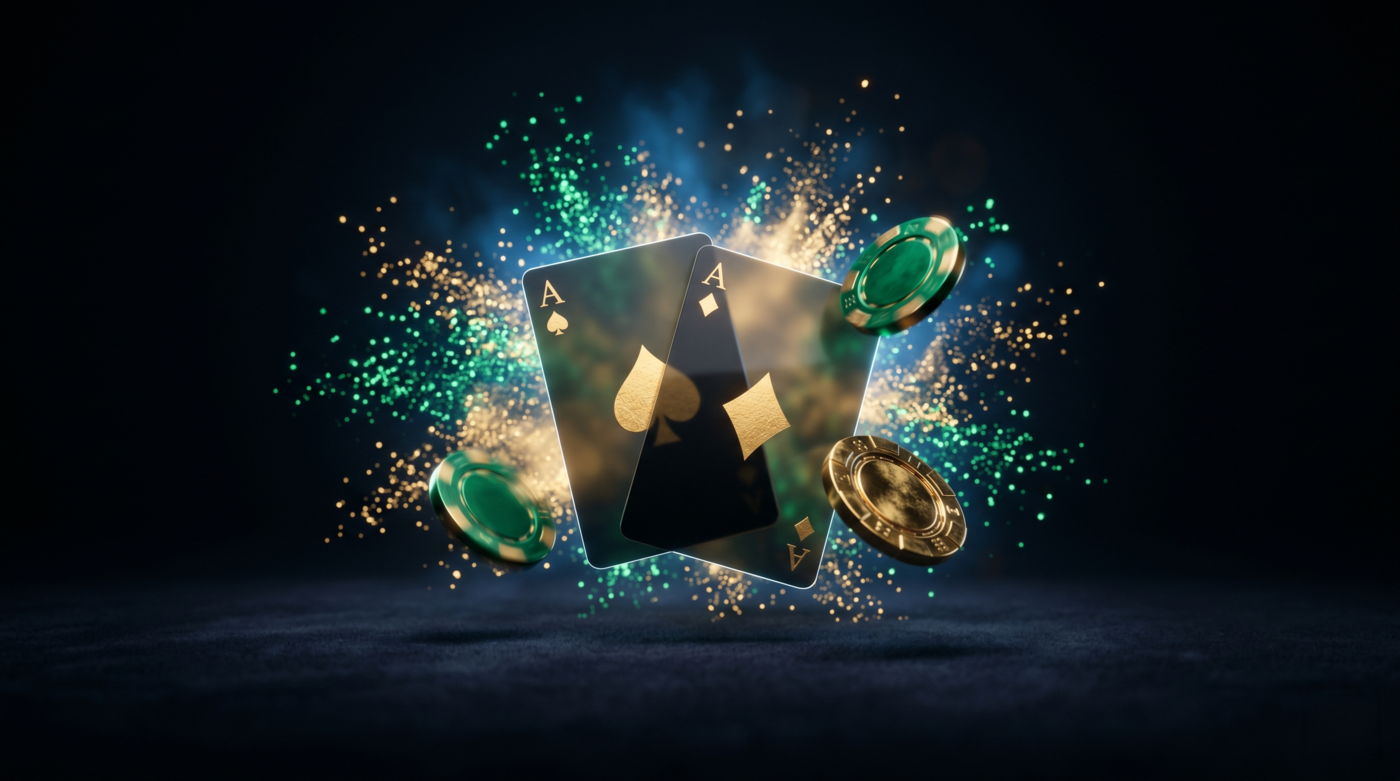
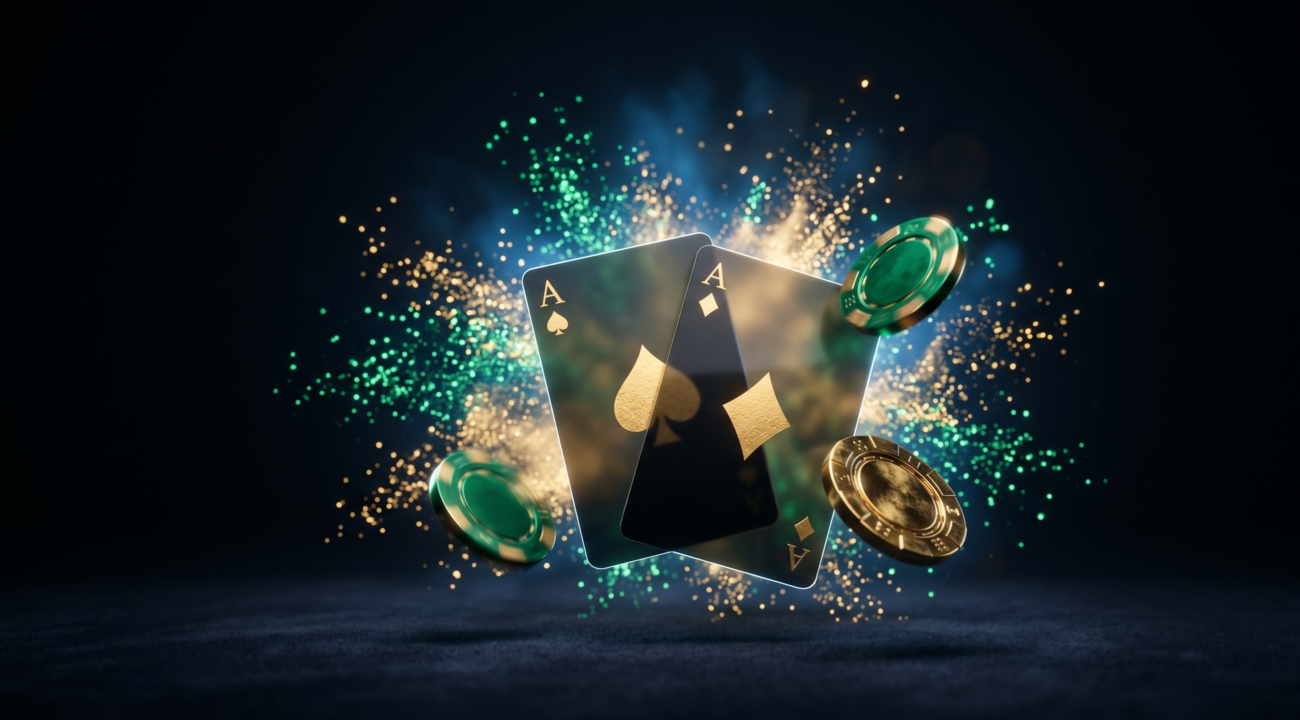
Revert in-app raster art to clean CSS (hero + Store) — kept felt + og
The generated scene-images don't blend: each has a baked dark background, so they
render as visible rectangles against the #070a0f UI, and the four were stylistically
inconsistent. Reverted the home hero back to the CSS card-fan (blends perfectly +
keeps the 3D tilt) and removed the Store chip image. KEPT felt.jpg (works as a table
texture, blends inside the rail) and og.png (the social share card lives outside the
UI; user removed the Gemini watermark in Photoshop).

Changed region(s): [[0.1231, 0.0917, 0.8923, 1.0], [0.7385, 0.7944, 0.7692, 0.825], [0.6462, 0.0917, 0.6769, 0.1222]]

diff --git a/src/ui/main.ts b/src/ui/main.ts
@@ -88,6 +88,7 @@ interface AppState {
   wallet: { play: number | null; premium: number | null }; // server balances (signed in)
   lastWeekly: number;       // last weekly-claim timestamp (server)
   weeklyStreak: number;     // consecutive weekly claims (drives the ladder)
+  collectibles: string[];   // owned cosmetic collectibles (server)
   isAdmin: boolean;         // super-admin custom claim
   inbox: import("../mp/firebase-adapter.js").InboxMsg[];
   compose: { toUid: string; toName: string; text: string; giftAmt: number; busy: boolean; err: string; sent: string };
@@ -212,6 +213,7 @@ const S: AppState = {
   wallet: { play: null, premium: null },
   lastWeekly: 0,
   weeklyStreak: 0,
+  collectibles: [],
   isAdmin: false,
   inbox: [],
   compose: { toUid: "", toName: "", text: "", giftAmt: 0, busy: false, err: "", sent: "" },
@@ -3736,7 +3738,7 @@ function stopEconomySubs(): void {
 async function startEconomySubs(uid: string): Promise<void> {
   stopEconomySubs();
   try {
-    _walletUnsub = await FB.subscribeWallet(uid, (w) => { S.wallet = { play: w.play, premium: w.premium }; S.edgePass = w.edgePass; S.lastWeekly = w.lastWeekly; S.weeklyStreak = w.weeklyStreak; renderIfEcon(); maybeShowWeekly(); });
+    _walletUnsub = await FB.subscribeWallet(uid, (w) => { S.wallet = { play: w.play, premium: w.premium }; S.edgePass = w.edgePass; S.lastWeekly = w.lastWeekly; S.weeklyStreak = w.weeklyStreak; S.collectibles = w.collectibles; renderIfEcon(); maybeShowWeekly(); });
     _inboxUnsub = await FB.subscribeInbox(uid, (msgs) => { S.inbox = msgs; renderIfEcon(); });
     _onlineUnsub = await FB.subscribeOnline((list) => { S.mp.online = list.filter((p) => p.uid !== uid); renderIfEcon(); });
     FB.isAdminClaim().then((a) => { S.isAdmin = a; renderIfEcon(); }).catch(() => {});
@@ -4110,6 +4112,7 @@ const EDGE_TIERS = [
 ];
 const COSMETICS = [
   { id: "squid", emoji: "🦑", name: "Squid Mascot", desc: "Collectible table mascot", chips: 2500 },
+  { id: "squiddigital", emoji: "🦑", name: "Squid · Digital", desc: "Limited digital Squid — account-bound flair", chips: 2000 },
   { id: "goldback", emoji: "🟡", name: "Gold Card Back", desc: "Gilded deck", chips: 1200 },
   { id: "emerald", emoji: "🟢", name: "Emerald Felt", desc: "Premium table felt", chips: 1500 },
   { id: "crown", emoji: "👑", name: "Crown Flair", desc: "Profile crown", chips: 3000 },
@@ -4119,8 +4122,8 @@ function addCosmetic(id: string): void { const o = ownedCosmetics(); if (!o.incl
 
 function renderStore(): void {
   cancelVillainTimer();
-  const owned = ownedCosmetics();
   const loggedIn = !!S.mp.auth;
+  const owned = loggedIn ? S.collectibles : ownedCosmetics();
   const playBal = loggedIn ? S.wallet.play : S.profile.chips;
   const premBal = loggedIn ? S.wallet.premium : 0;
   const claimReady = canClaimWeekly();
@@ -4149,7 +4152,6 @@ function renderStore(): void {
       </div>
 
       <div class="set-group"><div class="set-head">🪙 Play chips</div>
-        <img class="store-chips-art" src="chips.png" alt="" aria-hidden="true" width="1100" height="600" />
         <div class="set-note" style="margin-bottom:9px">Practice currency · refills free every Monday (+streak). AI rooms + learning tables. Buy-in capped at 100bb, so chips never buy an edge.</div>
         <div class="pack-grid">${PLAY_PACKS.map((pk) => pack(pk, "🪙")).join("")}</div>
       </div>
@@ -4163,7 +4165,7 @@ function renderStore(): void {
         <div class="set-note" style="margin-bottom:9px">Cosmetic only — card-backs, felts, frames. <strong>Account-bound: cannot be sold, traded, or transferred for value.</strong> The flashiest ones unlock by beating the trainer.</div>
         <div class="store-grid">${COSMETICS.map((c) => {
           const own = owned.includes(c.id);
-          return `<div class="store-item ${own ? "owned" : ""}"><div class="si-emoji">${c.emoji}</div><div class="si-name">${c.name}</div><div class="si-desc">${c.desc}</div>${own ? `<div class="si-own">Owned ✓</div>` : `<button class="hdr-btn" disabled>💎 ${c.chips.toLocaleString()} · Soon</button>`}</div>`;
+          return `<div class="store-item ${own ? "owned" : ""}"><div class="si-emoji">${c.emoji}</div><div class="si-name">${c.name}</div><div class="si-desc">${c.desc}</div>${own ? `<div class="si-own">Owned ✓</div>` : (loggedIn ? `<button class="hdr-btn buy-col" data-col="${c.id}" ${(S.wallet.premium ?? 0) < c.chips ? "disabled" : ""}>💎 ${c.chips.toLocaleString()}</button>` : `<button class="hdr-btn" disabled>💎 ${c.chips.toLocaleString()}</button>`)}</div>`;
         }).join("")}</div>
       </div>
 
@@ -4173,8 +4175,16 @@ function renderStore(): void {
   onId("store-back", "click", () => { S.screen = "home"; render(); });
   onId("store-back2", "click", () => { S.screen = "home"; render(); });
   onId("store-claim", "click", () => { _weeklyShown = false; showWeeklyClaim(); });
+  app.querySelectorAll(".buy-col").forEach((b) => onEl(b, "click", () => void doBuyCollectible((b as HTMLElement).dataset.col!)));
   onId("edge-buy", "click", () => { void startEdgePass(); });
   onId("edge-manage", "click", () => { void manageEdgePass(); });
+}
+
+// Buy a cosmetic collectible with premium chips (the live wallet sub reflects the
+// new balance + owned state on success; account-bound, non-transferable).
+async function doBuyCollectible(itemId: string): Promise<void> {
+  try { await FB.buyCollectible(itemId); try { playSound("chip"); } catch { /* */ } }
+  catch (e) { alert(friendlyErr(e)); }
 }
 
 // Edge Pass: redirect to Stripe Checkout (the secret keys live server-side; the
@@ -4221,7 +4231,11 @@ function renderHome(): void {
       </header>
 
       <div class="mc-hero">
-        <img class="mc-hero-art" src="hero.png" alt="" aria-hidden="true" width="1400" height="782" />
+        <div class="mc-fan" aria-hidden="true">
+          <span class="mc-hc back"></span>
+          <span class="mc-hc red">A<i>♥</i></span>
+          <span class="mc-hc">A<i>♠</i></span>
+        </div>
         <h1 class="mc-wordmark"><span>MONTECARLO</span><b>EDGE</b></h1>
         <p class="mc-tag">Play the player. Own the table.</p>
       </div>

diff --git a/src/mp/firebase-adapter.ts b/src/mp/firebase-adapter.ts
@@ -73,15 +73,17 @@ export const edgePassCheckout = (origin: string) => callFn<{ url: string | null 
 export const billingPortal = (origin: string) => callFn<{ url: string | null }>("createBillingPortal", { origin });
 
 // ── economy: two wallets, gifting, messaging, admin, ledger ──
-export interface Wallet { play: number; premium: number; edgePass: boolean; lastWeekly: number; weeklyStreak: number }
-/** Live two-wallet balance + Edge Pass + weekly-claim state for a player. */
+export interface Wallet { play: number; premium: number; edgePass: boolean; lastWeekly: number; weeklyStreak: number; collectibles: string[] }
+/** Live two-wallet balance + Edge Pass + weekly-claim state + owned collectibles. */
 export async function subscribeWallet(uid: string, cb: (w: Wallet) => void): Promise<() => void> {
   const { m, db } = await firestore();
-  return m.onSnapshot(m.doc(db, "users", uid), (s: { exists: () => boolean; data: () => Record<string, number | boolean> }) => {
+  return m.onSnapshot(m.doc(db, "users", uid), (s: { exists: () => boolean; data: () => Record<string, unknown> }) => {
     const d = s.exists() ? s.data() : {};
-    cb({ play: (d.chipsPlay as number) ?? (d.chips as number) ?? 1000, premium: (d.chipsPremium as number) ?? 0, edgePass: !!d.edgePass, lastWeekly: (d.lastWeekly as number) ?? 0, weeklyStreak: (d.weeklyStreak as number) ?? 0 });
+    cb({ play: (d.chipsPlay as number) ?? (d.chips as number) ?? 1000, premium: (d.chipsPremium as number) ?? 0, edgePass: !!d.edgePass, lastWeekly: (d.lastWeekly as number) ?? 0, weeklyStreak: (d.weeklyStreak as number) ?? 0, collectibles: (d.collectibles as string[]) ?? [] });
   });
 }
+/** Buy a cosmetic collectible with premium chips. */
+export const buyCollectible = (itemId: string) => callFn<{ balance: number }>("buyCollectible", { itemId });
 export interface InboxMsg { id: string; kind: string; from: string; fromName: string; text?: string; chips?: number; currency?: string; read?: boolean; createdAt?: { seconds: number } }
 /** Live inbox (newest first). */
 export async function subscribeInbox(uid: string, cb: (msgs: InboxMsg[]) => void): Promise<() => void> {

diff --git a/functions/src/index.ts b/functions/src/index.ts
@@ -373,3 +373,27 @@ export const claimWeekly = onCall(async (req) => {
     return { ok: true, granted: grant, balance: w.play + grant, streak };
   });
 });
+
+// Cosmetic collectibles catalog (server-authoritative prices, in PREMIUM chips).
+// These are account-bound digital cosmetics — no cash value, not transferable.
+const COLLECTIBLES: Record<string, number> = {
+  squid: 2500, goldback: 1200, emerald: 1500, crown: 3000, squiddigital: 2000,
+};
+/** Buy a cosmetic collectible with PREMIUM chips. Account-bound; non-transferable. */
+export const buyCollectible = onCall(async (req) => {
+  const uid = uidOf(req);
+  const { itemId } = (req.data ?? {}) as { itemId?: string };
+  const price = itemId ? COLLECTIBLES[itemId] : undefined;
+  if (!itemId || price == null) throw new HttpsError("invalid-argument", "Unknown item.");
+  return db.runTransaction(async (tx) => {
+    const snap = await tx.get(userRef(uid));
+    const d = (snap.exists ? snap.data()! : {}) as Record<string, unknown>;
+    const owned = (d.collectibles as string[]) ?? [];
+    if (owned.includes(itemId)) throw new HttpsError("failed-precondition", "Already owned.");
+    const w = readWallet(d);
+    if (w.premium < price) throw new HttpsError("failed-precondition", "Not enough premium chips.");
+    tx.set(userRef(uid), { chipsPremium: w.premium - price, collectibles: [...owned, itemId] }, { merge: true });
+    tx.set(ledgerRef().doc(), { type: "buy", item: itemId, currency: "premium", amount: price, from: uid, fromName: (d.name as string) ?? "player", to: "store", toName: "store", at: FieldValue.serverTimestamp() });
+    return { ok: true, balance: w.premium - price };
+  });
+});

diff --git a/public/sw.js b/public/sw.js
@@ -2,7 +2,7 @@
 // - App shell / navigations: network-first (so updates land immediately when
 //   online), falling back to cache when offline.
 // - Hashed assets & others: stale-while-revalidate (instant, refresh in bg).
-const CACHE = "mce-v36";
+const CACHE = "mce-v38";
 
 self.addEventListener("install", () => {
   self.skipWaiting();
